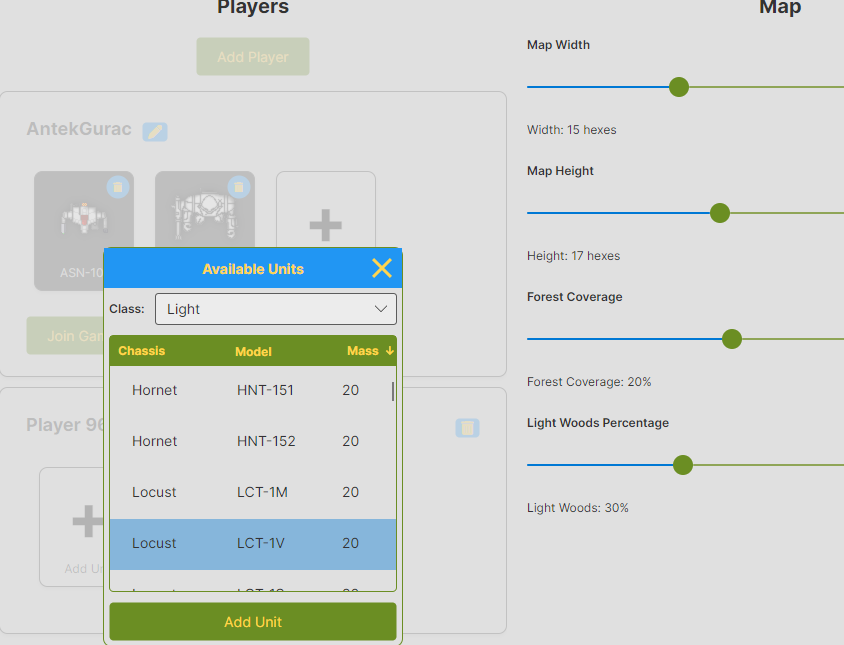
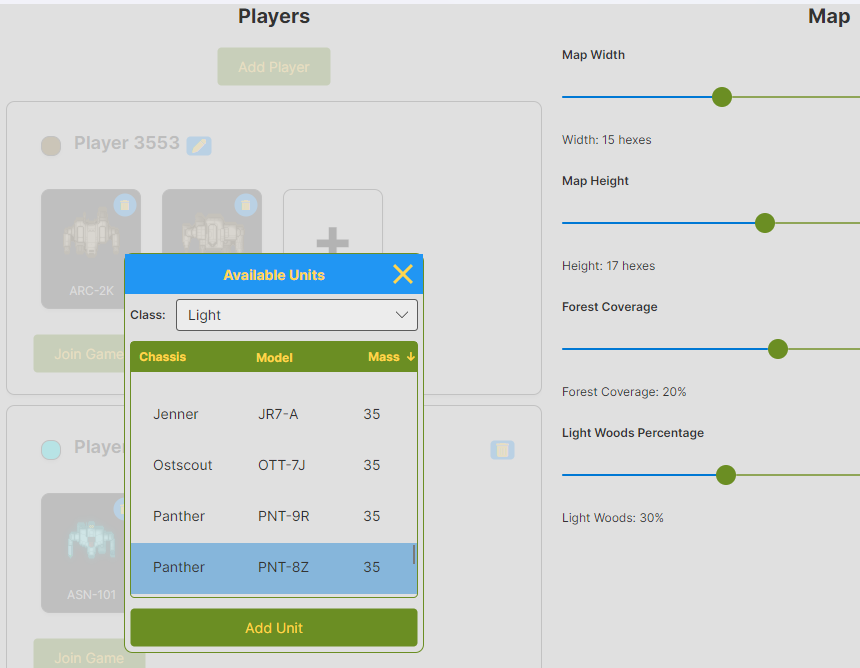
feat: apply tint to unit previews

diff --git a/src/MakaMek.Avalonia/MakaMek.Avalonia/Controls/UnitItemControl.axaml.cs b/src/MakaMek.Avalonia/MakaMek.Avalonia/Controls/UnitItemControl.axaml.cs
@@ -3,6 +3,7 @@ using System.Threading.Tasks;
 using System.Windows.Input;
 using Avalonia;
 using Avalonia.Controls;
+using Avalonia.Media;
 using Avalonia.Media.Imaging;
 using Sanet.MakaMek.Core.Data.Units;
 using Sanet.MakaMek.Core.Services;
@@ -23,6 +24,9 @@ public partial class UnitItemControl : UserControl
     public static readonly StyledProperty<bool> IsRemoveButtonVisibleProperty =
         AvaloniaProperty.Register<UnitItemControl, bool>(nameof(IsRemoveButtonVisible), defaultValue: false);
 
+    public static readonly StyledProperty<string?> PlayerTintProperty =
+        AvaloniaProperty.Register<UnitItemControl, string?>(nameof(PlayerTint));
+
     public ICommand? RemoveCommand
     {
         get => GetValue(RemoveCommandProperty);
@@ -41,6 +45,12 @@ public partial class UnitItemControl : UserControl
         set => SetValue(IsRemoveButtonVisibleProperty, value);
     }
 
+    public string? PlayerTint
+    {
+        get => GetValue(PlayerTintProperty);
+        set => SetValue(PlayerTintProperty, value);
+    }
+
     public UnitItemControl()
     {
         InitializeComponent();
@@ -53,6 +63,15 @@ public partial class UnitItemControl : UserControl
         if (_imageService == null) return;
 
         DataContextChanged += OnDataContextChanged;
+
+        // Listen for PlayerTint property changes to update the tint
+        PlayerTintProperty.Changed.AddClassHandler<UnitItemControl>((control, args) =>
+        {
+            if (control.DataContext is UnitData unitData)
+            {
+                _ = control.LoadUnitImage(unitData);
+            }
+        });
     }
     
     private async void OnDataContextChanged(object? sender, EventArgs e)
@@ -66,13 +85,25 @@ public partial class UnitItemControl : UserControl
     private async Task LoadUnitImage(UnitData unitData)
     {
         if (_imageService == null) return;
-        
+
         try
         {
             var image = await _imageService.GetImage("units/mechs", unitData.Model.ToUpper());
             if (image != null && UnitImage != null)
             {
                 UnitImage.Source = image;
+
+                // Apply player's tint color if available
+                if (!string.IsNullOrEmpty(PlayerTint) && TintBorder != null)
+                {
+                    var color = Color.Parse(PlayerTint);
+                    TintBorder.OpacityMask = new ImageBrush
+                    {
+                        Source = image,
+                        Stretch = Stretch.Fill
+                    };
+                    TintBorder.Background = new SolidColorBrush(color);
+                }
             }
         }
         catch (Exception ex)
